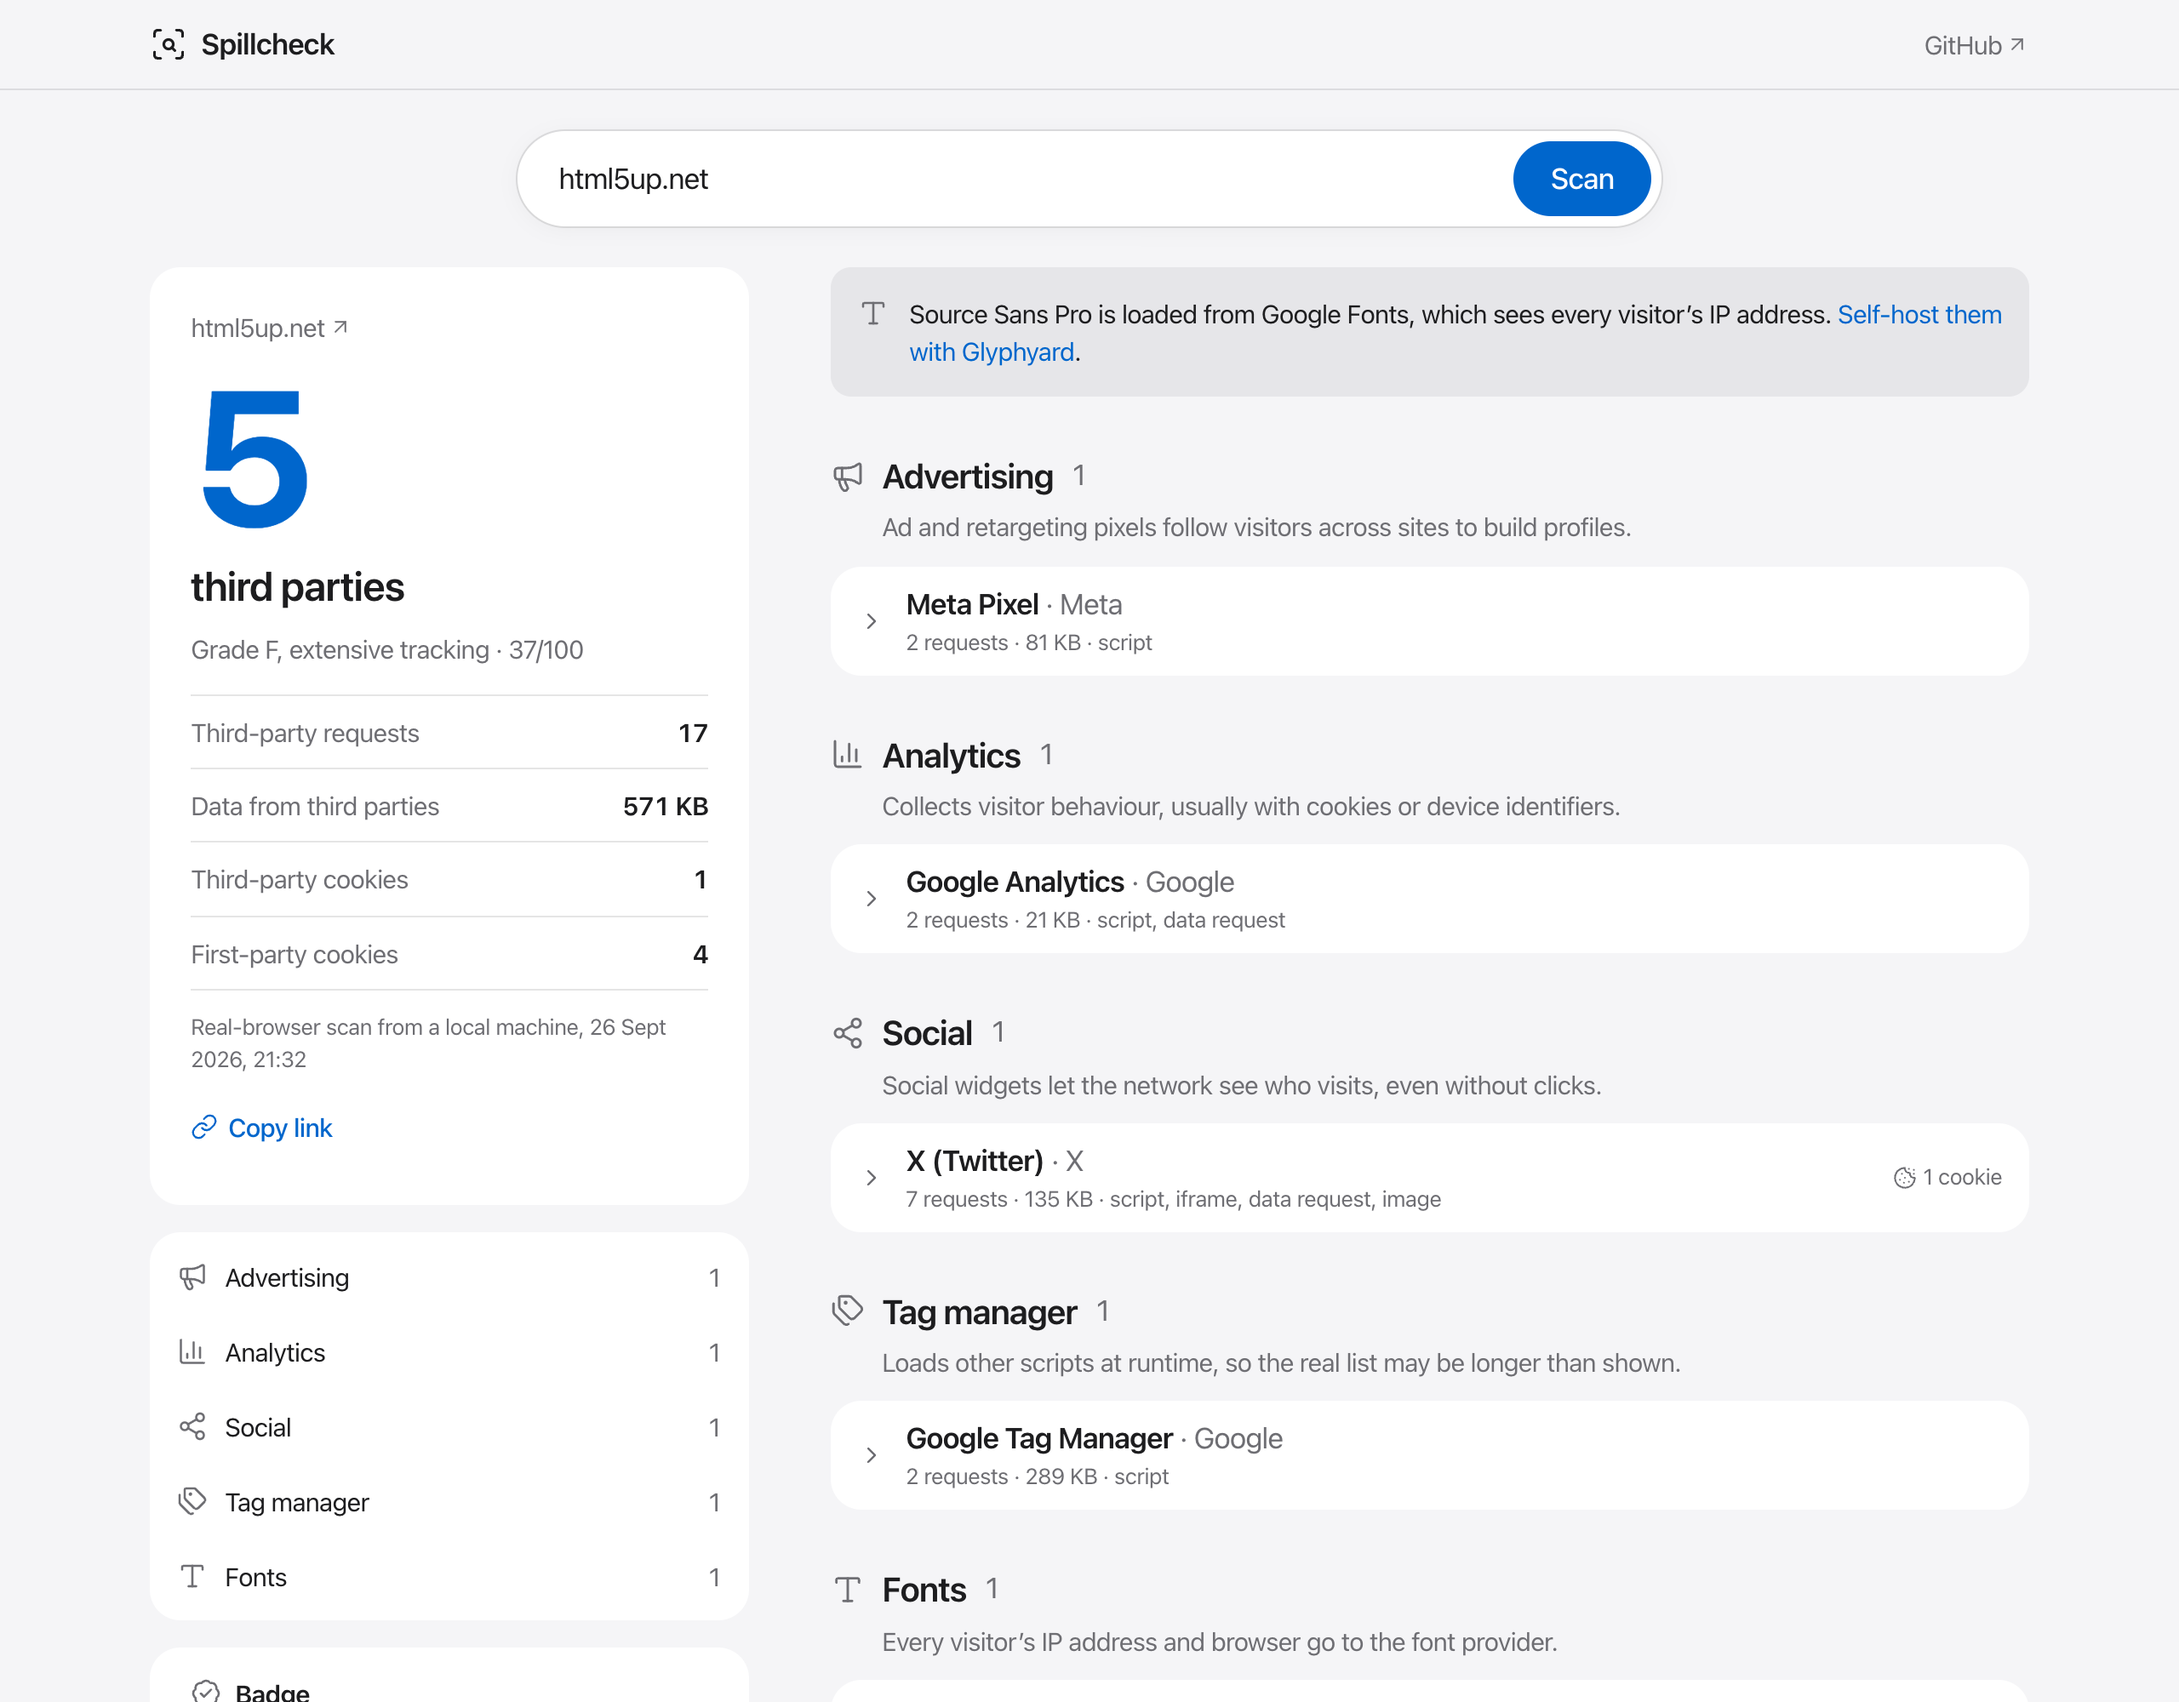
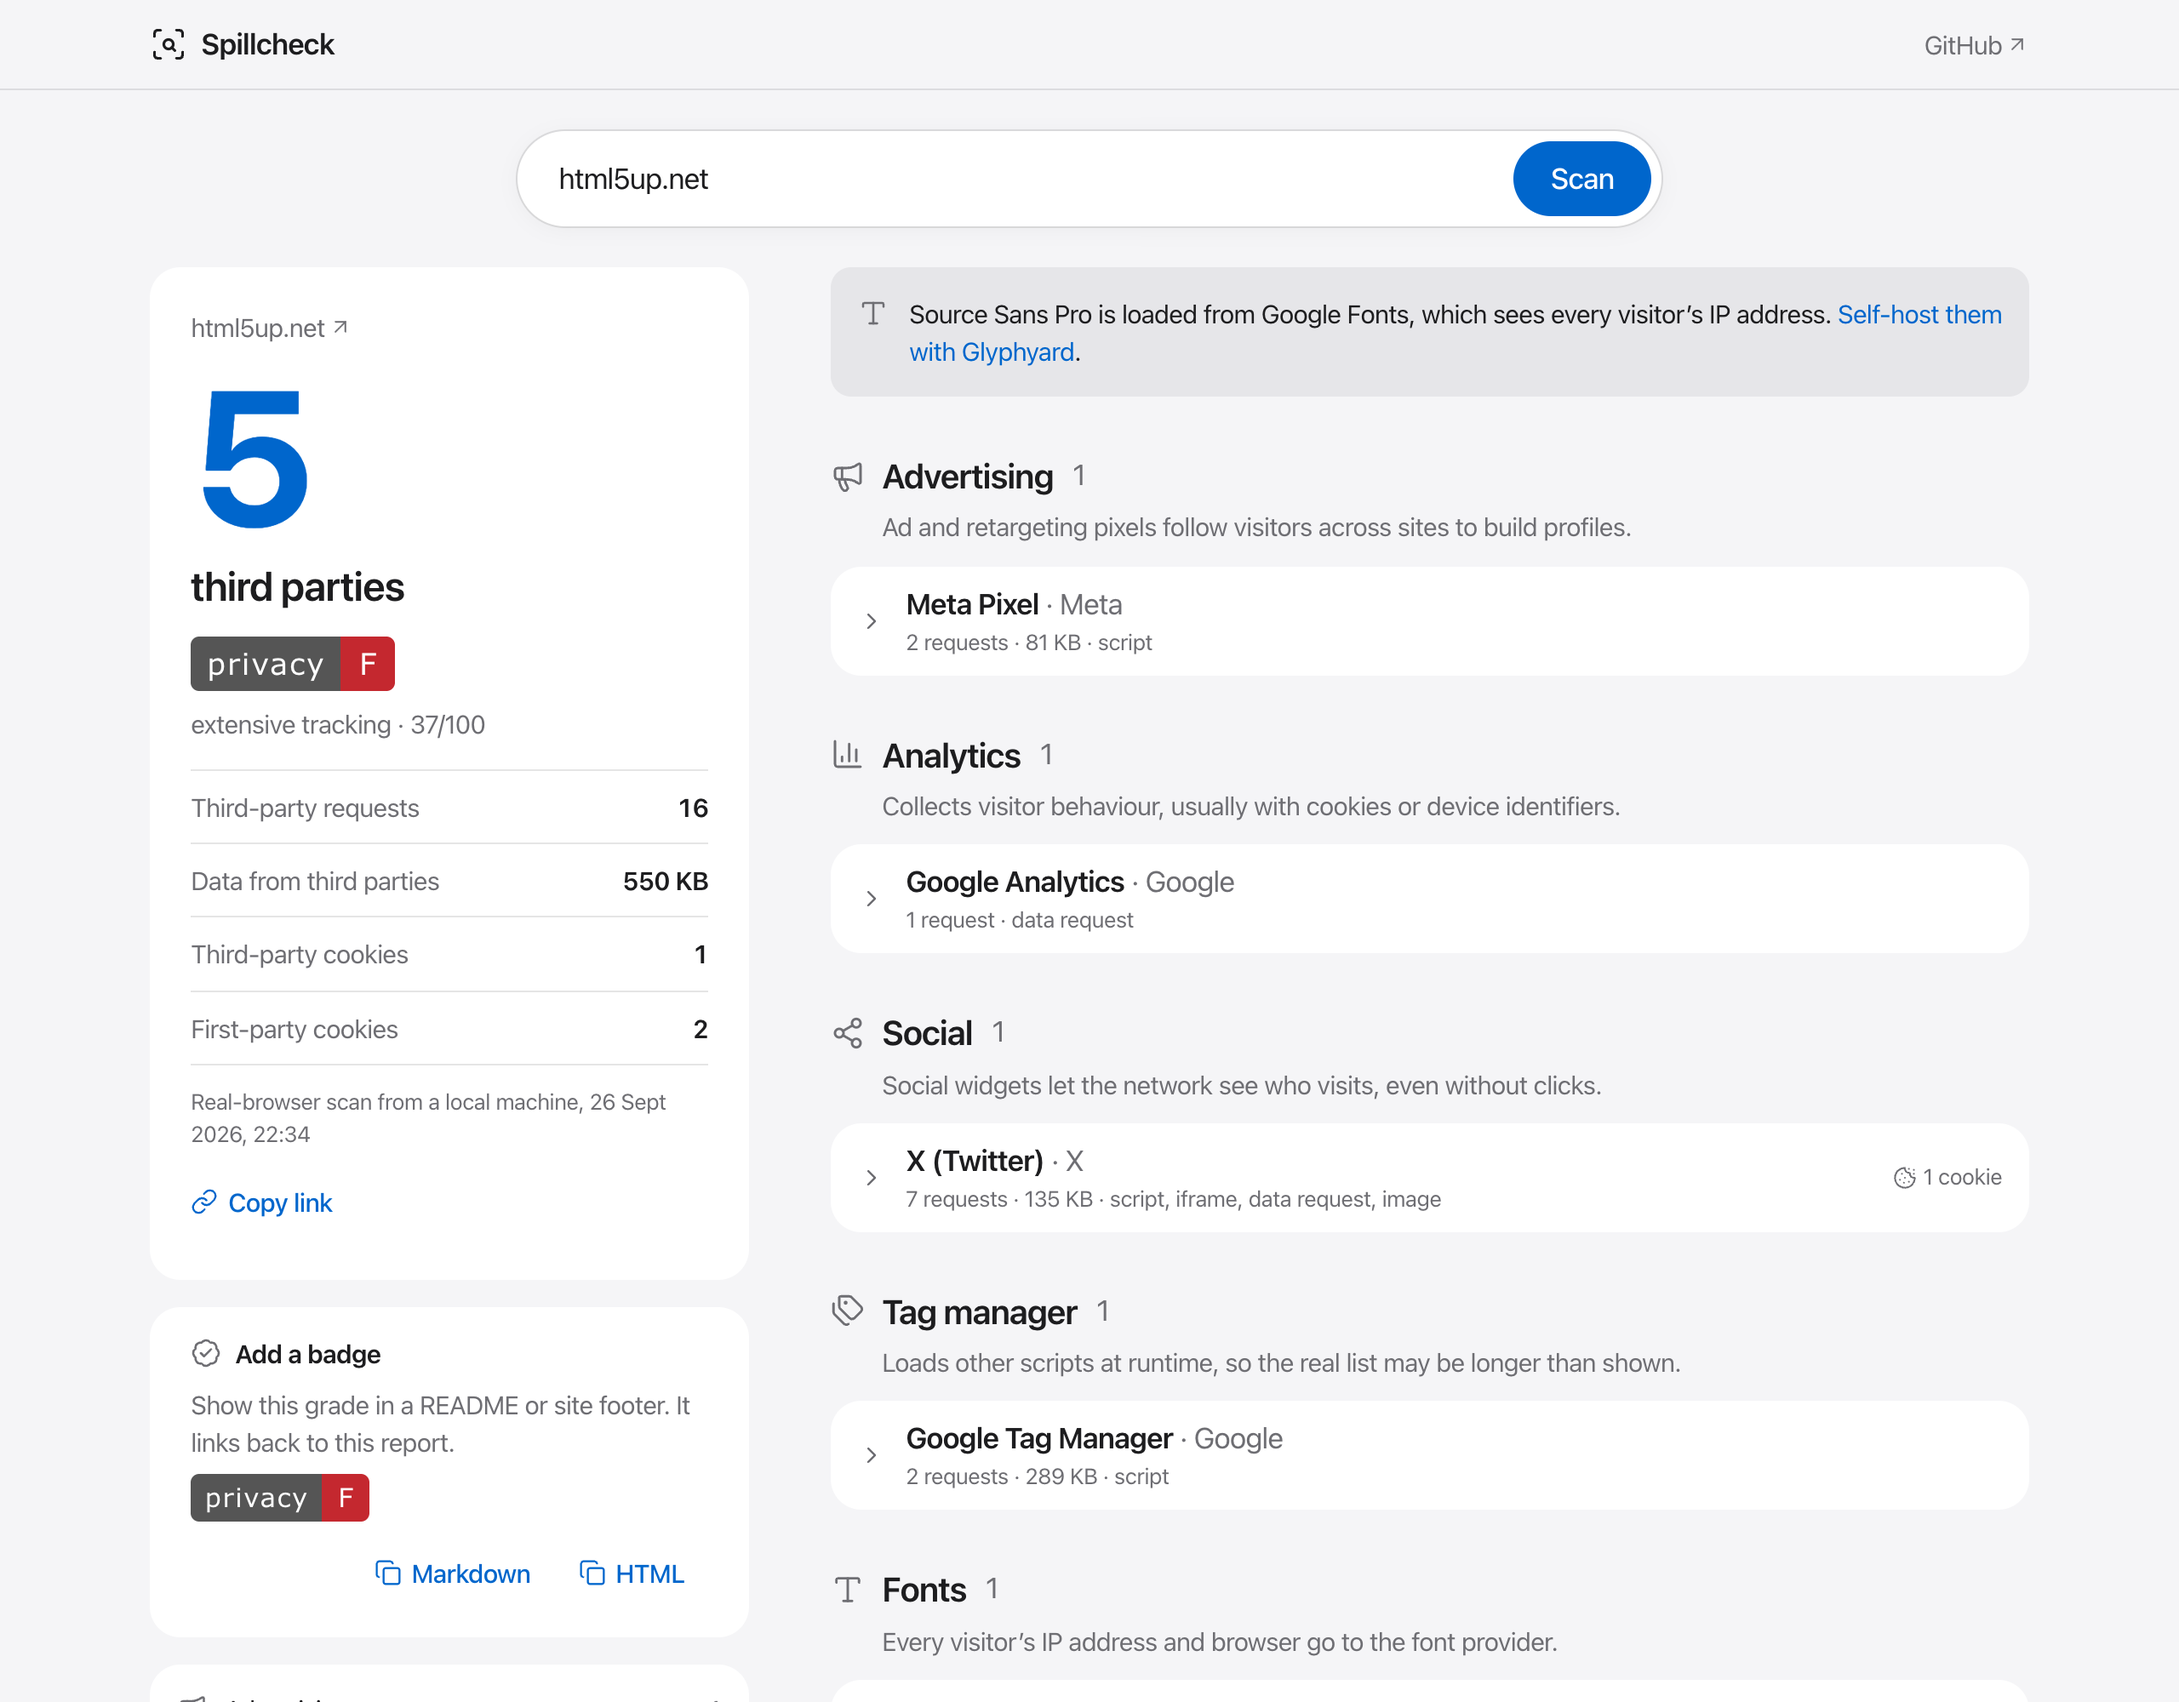
Colour-coded badges, shown prominently in results
- Badges use a colour per grade, green (A+) to red (F), each at least 5:1
  with white text; the grade letter is always shown
- Results show the badge large, right under the third-party count, and the
  'Add a badge' panel now follows the summary
- Badge SVGs get a viewBox and unique clip ids so they scale and can share
  a page
- /states: allow the locale-formatted scan date to differ on hydration

diff --git a/components/views.tsx b/components/views.tsx
@@ -24,6 +24,7 @@ import { forwardRef, useEffect, useRef, useState } from 'react';
 import type { Stage } from '@/lib/browser-scan';
 import { CATEGORIES, type Category } from '@/lib/categories';
 import type { Kind } from '@/lib/extract';
+import { badge } from '@/lib/badge';
 import type { Party, Report } from '@/lib/scan';
 import { CATEGORY_ICONS, type ClientErrorCode, ERRORS, STROKE } from './icons';
 
@@ -347,9 +348,12 @@ export function ResultView({
             <span className="hero-number">{total}</span>{' '}
             <span className="hero-label">{total === 1 ? 'third party' : 'third parties'}</span>
           </h2>
-          <p className="summary-meta">
-            Grade {report.grade}, {GRADE_WORDS[report.grade]} · {report.score}/100
-          </p>
+          <div className="summary-grade">
+            <GradeBadge grade={report.grade} size="large" />
+            <p className="summary-meta">
+              {GRADE_WORDS[report.grade]} · {report.score}/100
+            </p>
+          </div>
           <dl className="facts">
             <div>
               <dt>Third-party requests</dt>
@@ -372,12 +376,15 @@ export function ResultView({
           </dl>
           <p className="scan-source">
             {report.mode === 'browser' ? 'Real-browser scan' : 'Static scan'} from {region},{' '}
-            <time dateTime={report.scannedAt}>
+            {/* Formatted in the reader’s locale, which can differ from the server’s. */}
+            <time dateTime={report.scannedAt} suppressHydrationWarning>
               {new Date(report.scannedAt).toLocaleString(undefined, { dateStyle: 'medium', timeStyle: 'short' })}
             </time>
           </p>
           {shareUrl && <CopyButton label="Copy link" icon="link" text={shareUrl} />}
         </section>
+
+        <BadgeSection report={report} />
 
         {total > 0 && (
           <nav className="index" aria-label="Categories">
@@ -397,8 +404,6 @@ export function ResultView({
             </ul>
           </nav>
         )}
-
-        <BadgeSection report={report} />
       </aside>
 
       <div className="detail-column">
@@ -536,15 +541,27 @@ function BadgeSection({ report }: { report: Report }) {
     <section className="badge-section" aria-labelledby="badge-heading">
       <h3 id="badge-heading">
         <BadgeCheck size={18} strokeWidth={STROKE} aria-hidden />
-        Badge
+        Add a badge
       </h3>
-      {/* eslint-disable-next-line @next/next/no-img-element */}
-      <img src={`/badge?url=${q}`} alt={`Privacy grade ${report.grade}`} height={20} />
+      <p className="badge-intro">Show this grade in a README or site footer. It links back to this report.</p>
+      <GradeBadge grade={report.grade} size="medium" />
       <div className="badge-actions">
         <CopyButton label="Markdown" text={`[![Spillcheck privacy grade](${img})](${page})`} />
         <CopyButton label="HTML" text={`<a href="${page}"><img src="${img}" alt="Spillcheck privacy grade"></a>`} />
       </div>
     </section>
+  );
+}
+
+/** The same SVG the /badge endpoint serves, rendered inline and scaled up. */
+function GradeBadge({ grade, size }: { grade: Report['grade']; size: 'large' | 'medium' }) {
+  return (
+    <span
+      className={`grade-badge ${size}`}
+      role="img"
+      aria-label={`Privacy grade ${grade}`}
+      dangerouslySetInnerHTML={{ __html: badge('privacy', grade, { grade }).replace(/ role="img" aria-label="[^"]*"/, ' aria-hidden="true"') }}
+    />
   );
 }
 

diff --git a/lib/badge.ts b/lib/badge.ts
@@ -1,8 +1,7 @@
-// Flat, shields-style SVG badges: a neutral label and the result in the accent colour.
+// Flat, shields-style SVG badges: a neutral label and the grade on its colour.
+import { GRADE_COLORS, type Grade, UNKNOWN_COLOR } from './grades';
 
 const LABEL_BG = '#555';
-const VALUE_BG = '#0066cc'; // Spillcheck's accent; severity is in the text, not the colour
-const MUTED_BG = '#767676'; // 4.5:1 with white text
 const FONT = 'Verdana,Geneva,DejaVu Sans,sans-serif';
 
 // Approximate Verdana 11px advance widths. textLength below forces the exact
@@ -23,7 +22,9 @@ function escape(text: string) {
   return text.replace(/[&<>"']/g, (c) => `&#${c.charCodeAt(0)};`);
 }
 
-export function badge(label: string, value: string, { muted = false } = {}) {
+/** Badge SVG. Pure string building, so it also renders inline in the app. */
+export function badge(label: string, value: string, { grade }: { grade?: Grade } = {}) {
+  const valueBg = grade ? GRADE_COLORS[grade] : UNKNOWN_COLOR;
   const pad = 6;
   const lw = textWidth(label) + pad * 2;
   const vw = textWidth(value) + pad * 2;
@@ -32,5 +33,5 @@ export function badge(label: string, value: string, { muted = false } = {}) {
   const l = escape(label);
   const v = escape(value);
   // Text is drawn at 10x scale for crisper hinting, as shields.io does.
-  return `<svg xmlns="http://www.w3.org/2000/svg" width="${w}" height="20" role="img" aria-label="${title}"><title>${title}</title><clipPath id="r"><rect width="${w}" height="20" rx="3" fill="#fff"/></clipPath><g clip-path="url(#r)"><rect width="${lw}" height="20" fill="${LABEL_BG}"/><rect x="${lw}" width="${vw}" height="20" fill="${muted ? MUTED_BG : VALUE_BG}"/></g><g fill="#fff" text-anchor="middle" font-family="${FONT}" font-size="110" text-rendering="geometricPrecision"><text x="${(lw / 2) * 10}" y="140" transform="scale(.1)" textLength="${(lw - pad * 2) * 10}">${l}</text><text x="${(lw + vw / 2) * 10}" y="140" transform="scale(.1)" textLength="${(vw - pad * 2) * 10}">${v}</text></g></svg>`;
+  return `<svg xmlns="http://www.w3.org/2000/svg" width="${w}" height="20" viewBox="0 0 ${w} 20" role="img" aria-label="${title}"><title>${title}</title><clipPath id="sc-r${w}"><rect width="${w}" height="20" rx="3" fill="#fff"/></clipPath><g clip-path="url(#sc-r${w})"><rect width="${lw}" height="20" fill="${LABEL_BG}"/><rect x="${lw}" width="${vw}" height="20" fill="${valueBg}"/></g><g fill="#fff" text-anchor="middle" font-family="${FONT}" font-size="110" text-rendering="geometricPrecision"><text x="${(lw / 2) * 10}" y="140" transform="scale(.1)" textLength="${(lw - pad * 2) * 10}">${l}</text><text x="${(lw + vw / 2) * 10}" y="140" transform="scale(.1)" textLength="${(vw - pad * 2) * 10}">${v}</text></g></svg>`;
 }

diff --git a/app/app.css b/app/app.css
@@ -458,6 +458,39 @@ svg {
   letter-spacing: -0.02em;
 }
 
+.summary-grade {
+  display: flex;
+  flex-wrap: wrap;
+  align-items: center;
+  gap: var(--s2) 0.75rem;
+  margin-top: var(--s1);
+}
+
+.grade-badge {
+  display: inline-flex;
+  line-height: 0;
+}
+
+.grade-badge svg {
+  width: auto;
+  border-radius: 5px;
+}
+
+.grade-badge.large svg {
+  height: 2rem;
+}
+
+.grade-badge.medium svg {
+  height: 1.75rem;
+}
+
+.badge-intro {
+  width: 100%;
+  margin: 0;
+  color: var(--text-2);
+  font-size: var(--t-callout);
+}
+
 .summary-meta {
   margin: 0;
   color: var(--text-2);
@@ -691,11 +724,6 @@ svg {
 
 .badge-section h3 svg {
   color: var(--text-2);
-}
-
-.badge-section img {
-  display: block;
-  height: 20px;
 }
 
 .badge-actions {

diff --git a/app/badge/route.ts b/app/badge/route.ts
@@ -16,10 +16,10 @@ export async function GET(request: Request) {
     const value = detail
       ? `${report.grade} · ${n} third ${n === 1 ? 'party' : 'parties'}`
       : report.grade;
-    return svg(badge(label, value), 'public, max-age=3600, s-maxage=86400, stale-while-revalidate=604800');
+    return svg(badge(label, value, { grade: report.grade }), 'public, max-age=3600, s-maxage=86400, stale-while-revalidate=604800');
   } catch {
     // Badges live in other people's READMEs, so a failed scan still renders.
-    return svg(badge(label, 'unknown', { muted: true }), 'public, max-age=300, s-maxage=3600');
+    return svg(badge(label, 'unknown'), 'public, max-age=300, s-maxage=3600');
   }
 }
 

diff --git a/lib/grades.ts b/lib/grades.ts
@@ -1,0 +1,14 @@
+// Grade colours for badges. Each gives at least 5:1 contrast with white text,
+// and the grade letter is always shown, so colour is never the only signal.
+export const GRADE_COLORS = {
+  'A+': '#1a7f37',
+  A: '#2d7a27',
+  B: '#5c7300',
+  C: '#8a6100',
+  D: '#b54708',
+  F: '#c4282f',
+} as const;
+
+export const UNKNOWN_COLOR = '#6e6e73';
+
+export type Grade = keyof typeof GRADE_COLORS;

diff --git a/README.md b/README.md
@@ -49,7 +49,9 @@ page gets a privacy grade from A+ to F.
 | `label`   | `privacy` | Left-hand text, up to 24 characters. |
 | `detail`  | off       | `detail=1` adds the count: `B · 2 third parties`. |
 
-Badges read the same cached report as the report page. If a scan fails, the badge shows `unknown` rather
+Badges are colour-coded by grade, from green (A+) to red (F); every colour
+keeps at least 5:1 contrast with the white text, and the grade letter is always
+shown. Badges read the same cached report as the report page. If a scan fails, the badge shows `unknown` rather
 than a broken image. Every result page has copy-ready Markdown and HTML.
 
 ## How it works
